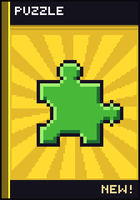
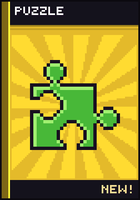
feat(theme): redraw mario, puzzle, pokemon and mega man art
Mario is a question block, Pokemon a poke ball outline, Mega Man the helmet with two crest blocks and an M face opening; the puzzle piece gets matching knobs and holes.

Changed region(s): [[0.2, 0.3, 0.8857, 0.75]]

diff --git a/tools/gen_theme_art.py b/tools/gen_theme_art.py
@@ -861,25 +861,27 @@ def light_gun(p):  # light gun
     p.c([(32, 38), (32, 47), (40, 53), (52, 50), (66, 54)])
 
 
-def mario(p):  # mushroom
-    cap = (spline([(-41, 4), (-39, -24), (-17, -45), (17, -45), (39, -24), (41, 4)])
-           + spline([(41, 4), (21, 10), (0, 11), (-21, 10), (-41, 4)])[1:])
-    p.path(cap, True)
-    p.c([(-18, 10), (-23, 32), (-13, 45), (13, 45), (23, 32), (18, 10)])
-    p.o(0, -22, 11.5)
-    with p.inside(cap):
-        p.o(-41, -8, 13)
-        p.o(41, -8, 13)
+def mario(p):  # question block
+    p.rr(-38, -38, 38, 38, 8)
+    for x in (-1, 1):
+        for y in (-1, 1):
+            p.o(31 * x, 31 * y, 2.2)
+            p.o(31 * x, 31 * y, 0.8)
+    hook = arc(0, -12, 10, 10, 170, 395)
+    p.path(hook + spline([hook[-1], (3, -1), (0, 3), (0, 8)])[1:])
+    p.o(0, 20, 2.2)
+    p.o(0, 20, 0.8)
 
 
-def mega_man(p):  # gear
-    pts = []
-    for i in range(8):
-        for d, r in ((-15, 31), (-9, 43), (9, 43), (15, 31)):
-            a = math.radians(i * 45 + d)
-            pts.append((r * math.cos(a), r * math.sin(a)))
-    p.pg(pts, 2)
-    p.o(0, 0, 14)
+def mega_man(p):  # the helmet
+    head = arc(0, 0, 40, 38, 0, 360)
+    p.path(head, True)
+    for x in (-1, 1):
+        p.o(40 * x, 12, 6, 10, opaque=True)
+    p.rr(-8, -47, 8, -31, 3, opaque=True)
+    p.rr(-8, -26, 8, -10, 3, opaque=True)
+    p.path(spline([(-29, 26.2), (-30, 10), (-22, -6), (-12, -3), (0, 14), (12, -3), (22, -6), (30, 10), (29, 26.2),
+                   (15, 35.1), (0, 38), (-15, 35.1)], closed=True), True, opaque=True)
 
 
 def metroid(p):  # ringed planet
@@ -919,26 +921,13 @@ def pinball(p):  # flippers, bumpers and a ball
     p.o(8, 4, 8.5)
 
 
-def pokemon(p):  # pikachu
-    p.pg([(52, -6), (34, 20), (40, 28), (16, 44), (49, 36), (43, 29), (65, 4)], 1.5)
-    p.o(-21, 19, 4.5, 7, 33, opaque=True)
-    p.o(21, 19, 4.5, 7, -33, opaque=True)
-    p.pg([(-17, 0), (17, 0), (24, 32), (18, 46), (-18, 46), (-24, 32)], 8, opaque=True)
-    ear = spline([(-20, -14), (-31, -32), (-36, -50)]) + spline([(-36, -50), (-24, -36), (-11, -22)])[1:]
-    for flip in (False, True):
-        side = mirror if flip else list
-        p.path(side(ear), True)
-        with p.inside(side(ear)):
-            p.l(side([(-36.3, -32.4), (-19.7, -43.5)]))
-        p.path(side(arc(-13, 47, 8, 3.5, 0, 354)), True, opaque=True)
-    p.path(spline([(0, -26), (14, -24), (24, -16), (27, -6), (21, 6), (0, 10), (-21, 6), (-27, -6), (-24, -16),
-                   (-14, -24)], closed=True), True, opaque=True)
-    for x in (-1, 1):
-        p.o(12 * x, -10, 2.2)
-        p.o(12 * x, -10, 0.8)
-        p.o(18 * x, -1, 4.5)
-    p.l([(-0.6, -5.5), (0.6, -5.5)])
-    p.c([(-5, -2.5), (-2.5, 0.5), (0, -2), (2.5, 0.5), (5, -2.5)])
+def pokemon(p):  # poke ball
+    ball = arc(0, 0, 40, 40, 0, 360)
+    p.path(ball, True)
+    with p.inside(ball):
+        p.l([(-48, 0), (48, 0)], 0)
+    p.o(0, 0, 12.5, opaque=True)
+    p.o(0, 0, 5.5)
 
 
 def pokemon_spin_offs(p):  # the snap camera, its lens a poke ball
@@ -2388,7 +2377,7 @@ ART = {
     "metroidvanias": (metroidvanias, (84, 76, 150), -6, 1.0, (0, 0)),
     "pinball": (pinball, (170, 70, 170), -6, 1.0, (-14, 0)),
     "platformers": (platformers, (68, 148, 220), -5, 1.0, (0, 0)),
-    "pokemon": (pokemon, (236, 180, 30), -4, 0.86, (-74, 0)),
+    "pokemon": (pokemon, (236, 180, 30), -4, 1.0, (-14, 0)),
     "resident-evil": (resident_evil, (140, 40, 44), 16, 1.0, (0, 0)),
     "retro-oddities": (retro_oddities, (176, 112, 52), -6, 1.0, (6, 0)),
     "rpg-series": (rpg_series, (132, 72, 148), -10, 1.0, (0, 0)),
